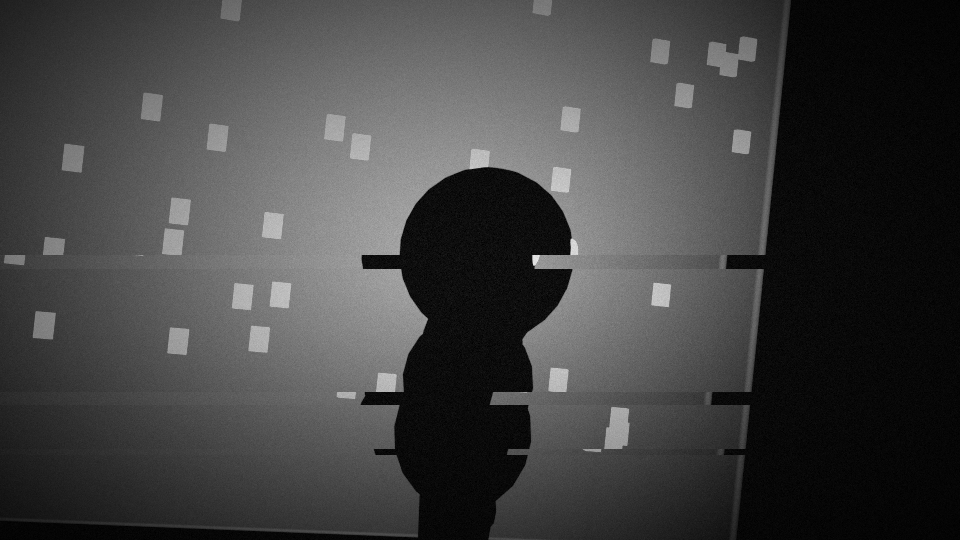
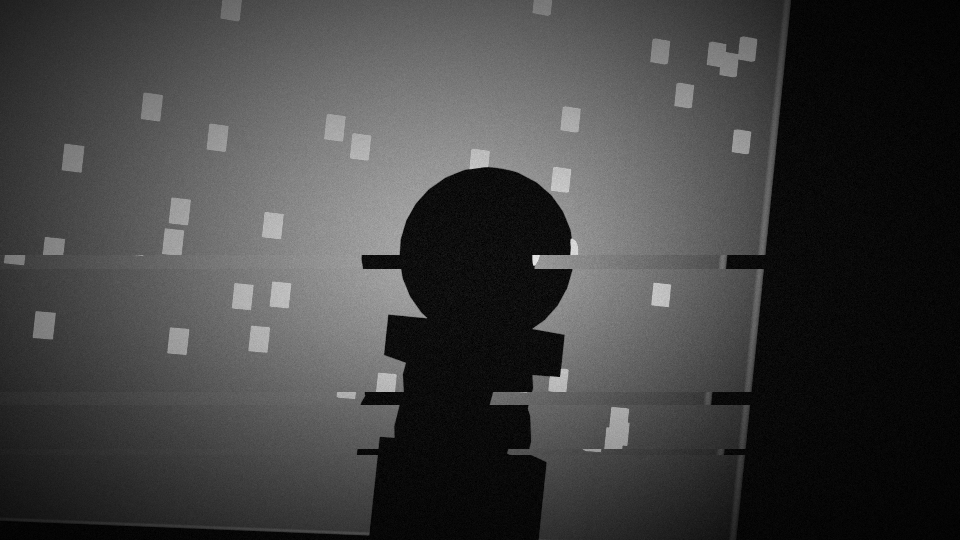
Voss stills: his coat and silver hair; the blow now shows him walking away into the light
Claude-Session: https://claude.ai/code/session_015hMH19Q3ffBpefttWAikbH

diff --git a/tools/blender/render_finale.py b/tools/blender/render_finale.py
@@ -80,8 +80,9 @@ def v3_blow():
     MY.thug(swing, (-0.45, 0.6, 0), facing=1)
     F.box((0.05, 0.55, 1.55), (0.7, 0.05, 0.05), F.flat(0.4), rot=(0, 0.7, 0))      # the pipe, coming down
     walk = B.pose(B.STRAIGHT, thigh_L=25, shin_L=10, thigh_R=-15, shin_R=20, upperarm_L=-15, upperarm_R=15)
-    voss(walk, (1.6, 1.9, 0), facing=1)                                              # and him, walking away, not looking back
-    F.camera((0.4, -2.8, 1.1), (0.0, 0.6, 1.05), 50, roll=-9)
+    F.box((1.75, 2.2, 1.1), (1.1, 0.05, 2.2), F.halo(1.0, 1.4, "Doorway"))           # an open door, bright, far off
+    voss(walk, (1.6, 1.9, 0), facing=1)                                             # and him, walking away into it, not looking back
+    F.camera((0.45, -3.4, 1.15), (0.55, 0.9, 1.05), 52, roll=-9)
 
 
 SHOTS = [v1_out, v2_phone, v3_blow]
